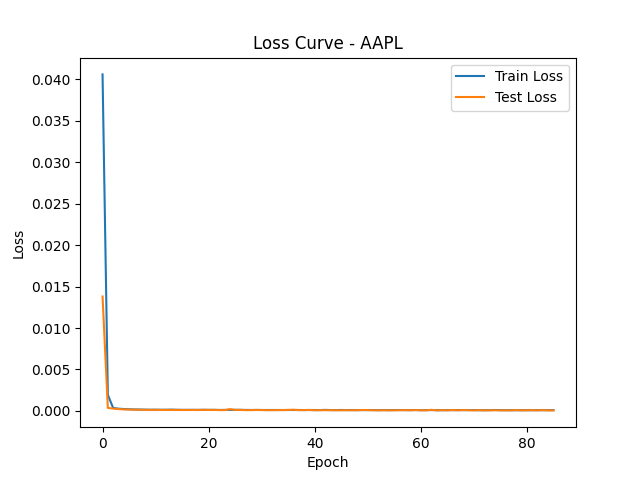
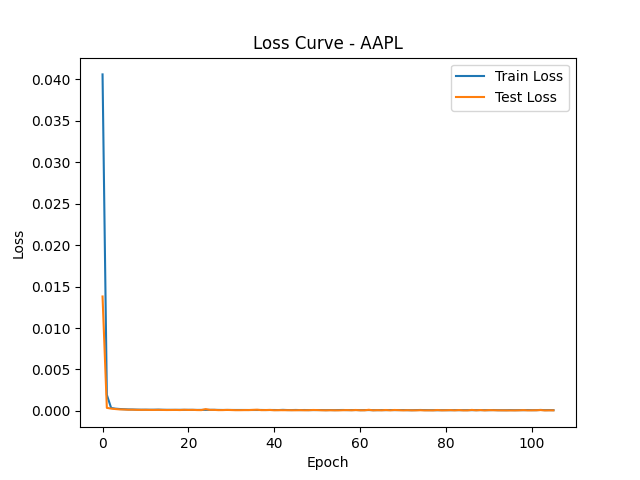
Using for loop instead of while

diff --git a/task3.py b/task3.py
@@ -18,9 +18,9 @@ from task2 import RNN
 # HYPERPARAMETERS
 # these are kept the same for consistency
 BATCH_SIZE = 32
-EPOCHS = 100 # Maximum epochs to try
+EPOCHS = 200 # Maximum epochs to try
 WEIGHT_DECAY = 0.001
-BAD_RUNS = 20 # Number of runs of no improvement to give up
+BAD_RUNS = 40 # Number of runs of no improvement to give up
 
 # Configurable for task3
 LEARNING_RATE = 0.0005
@@ -66,9 +66,7 @@ def train_model(model, stock: Stock, lr: float, verbose: bool):
   bad_runs = 0
 
   # EPOCHS START
-  epoch = 0
-  while epoch < EPOCHS: #for epoch in range(EPOCHS):
-    epoch += 1
+  for epoch in range(EPOCHS):
     model.train()
     epoch_loss = 0
 